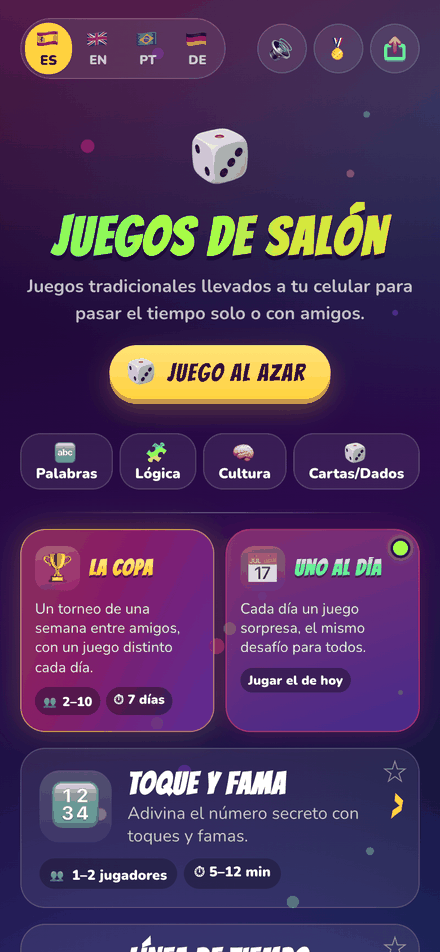
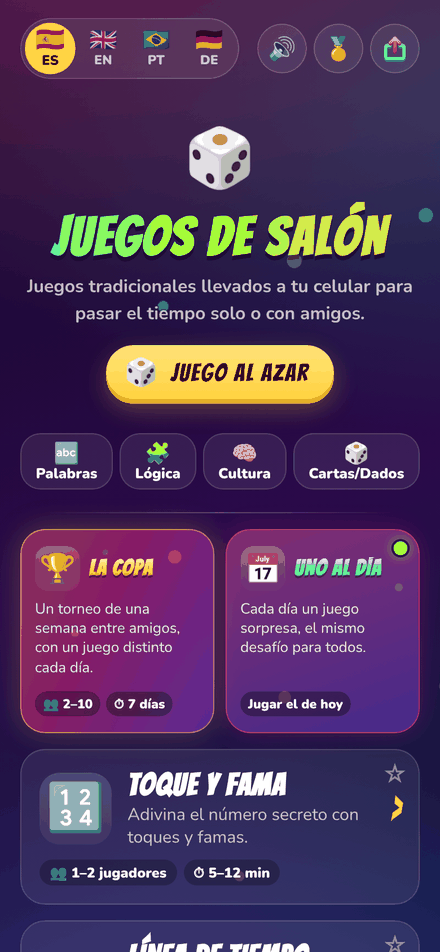
Portada: las píldoras de La Copa y Uno al día, abajo a la izquierda (D-298)
En la fila de media tarjeta, la última fila de la grilla se lleva el alto que sobra y las
píldoras se apoyan en su borde de abajo: quedan aparte de la bajada y a la misma altura en las
dos tarjetas. Canon, decisión, CHANGELOG y capturas de la portada.

Claude-Session: https://claude.ai/code/session_01Hqn3jMTANEpft9pavQSTnk

diff --git a/public/index.html b/public/index.html
@@ -264,7 +264,7 @@
     .fila-alta { display: grid; grid-auto-flow: column; grid-auto-columns: minmax(0, 1fr); gap: 10px; }
     /* El emoji va a la izquierda del título, y la bajada y las píldoras de borde a borde: la fila
        queda casi 90 px más baja que con el emoji arriba (D-239) */
-    .game-card.alta { position: relative; grid-template-columns: auto 1fr; grid-template-areas: "emoji h2" "tag tag" "meta meta"; column-gap: 8px; row-gap: 8px; align-items: center; align-content: start; justify-items: start; text-align: left; padding: 14px 12px; font: inherit; cursor: pointer; }
+    .game-card.alta { position: relative; grid-template-columns: auto 1fr; grid-template-rows: auto auto 1fr; grid-template-areas: "emoji h2" "tag tag" "meta meta"; column-gap: 8px; row-gap: 8px; align-items: center; justify-items: start; text-align: left; padding: 14px 12px; font: inherit; cursor: pointer; }
     .game-card.alta .emoji { width: 40px; height: 40px; font-size: 1.6rem; border-radius: 12px; }
     .game-card.alta .texto { display: contents; }
     .game-card.alta h2 { grid-area: h2; font-size: clamp(1.05rem, 5vw, 1.35rem); line-height: 1.05; }
@@ -273,6 +273,9 @@
     /* Jugadores y duración, en una sola línea: "👥 2–10 jugadores" no cabía al lado de "⏱ 7 días"
        en media fila, así que la palabra se esconde a la vista (el lector de pantalla la lee) */
     .game-card.alta .meta { flex-wrap: nowrap; gap: 5px; }
+    /* Las píldoras (jugadores y días; la racha o cómo va hoy) van abajo a la izquierda, aparte de la
+       bajada: la última fila se lleva el alto que sobra, así quedan a la misma altura en las dos tarjetas */
+    .game-card.alta .meta { align-self: end; padding-top: 4px; }
     .game-card.alta .meta span { font-size: 0.72rem; padding: 3px 7px; }
     .game-card.alta .meta span .unidad { position: absolute; width: 1px; height: 1px; overflow: hidden; clip-path: inset(50%); white-space: nowrap; padding: 0; }
     @media (max-width: 340px) { .game-card.alta .meta { gap: 4px; } .game-card.alta .meta span { padding: 3px 5px; font-size: 0.68rem; } }

diff --git a/docs/DECISIONES.md b/docs/DECISIONES.md
@@ -60,8 +60,8 @@ que siguen explicando algo; las reemplazadas y derogadas quedan fuera.
 | Idiomas | C-3 | D-47, D-74, D-170, D-191, D-194, D-197, D-199, D-231, D-244, D-256, D-269, D-270, D-286, D-289, D-293 |
 | Sonido y vibración | C-4 | D-17, D-92 |
 | Modos de juego | C-5 | D-27, D-65, D-129, D-142, D-213, D-246 |
-| Portada: orden, filtros y favoritos | C-17 | D-142, D-144, D-149, D-196, D-214, D-238, D-239, D-240, D-241, D-255 |
-| Juego al azar y Uno al día | [UNO-AL-DIA.md](UNO-AL-DIA.md) | D-188, D-230, D-235, D-237, D-239, D-247 |
+| Portada: orden, filtros y favoritos | C-17 | D-142, D-144, D-149, D-196, D-214, D-238, D-239, D-240, D-241, D-255, D-298 |
+| Juego al azar y Uno al día | [UNO-AL-DIA.md](UNO-AL-DIA.md) | D-188, D-230, D-235, D-237, D-239, D-247, D-298 |
 | Salas y transporte | C-7, C-15 | D-18, D-20, D-29, D-35, D-39, D-41, D-50, D-89, D-138 |
 | Anti-trampa y secretos | C-10, C-7 | D-19, D-21, D-55, D-70, D-81, D-82, D-97, D-246 |
 | Memoria de partida | C-6 | D-25, D-150 |
@@ -5340,3 +5340,14 @@ Sin confeti.
 etapas hechas).
 **Consecuencias:** `engine.test.mjs` revisa el avance y el puntaje al rendirse;
 `tools/e2e/paint-mines/lab.mjs` se rinde a mitad de partida.
+
+## D-298 · Las píldoras de La Copa y Uno al día, abajo a la izquierda
+**Fecha:** 2026-10-12 · **Estado:** vigente · **Relación:** completa D-239 (cómo se ordena la tarjeta de media fila)
+**Decisión:** en las dos tarjetas de media fila de la portada, las píldoras (👥 jugadores y ⏱ días
+en La Copa; la racha o cómo va hoy en Uno al día) van abajo a la izquierda de la tarjeta, aparte de
+la bajada. La última fila de la grilla (`grid-template-rows: auto auto 1fr`) se lleva el alto que
+sobra y las píldoras se apoyan en su borde de abajo (`align-self: end`), así quedan a la misma
+altura en las dos tarjetas aunque una bajada sea más larga que la otra. Lo pidió el dueño: antes la
+píldora de Uno al día quedaba pegada a su bajada, a media tarjeta, y se leía como parte del texto.
+**Alternativas descartadas:** una línea o un fondo que separe las píldoras (más ruido en una
+tarjeta chica); igualar el largo de las bajadas (cambia con el idioma).

diff --git a/docs/CANONES.md b/docs/CANONES.md
@@ -368,7 +368,8 @@ de dónde viene. Lo que cambie la portada se cambia aquí, en el mismo PR.
   a la izquierda del título, la bajada y las píldoras de ancho entero, y el título en color: La
   Copa en dorado, Uno al día en celeste; los juegos van en blanco. Para que jugadores y duración
   quepan en una línea, la píldora dice "👥 2–10" y "jugadores" queda solo para el lector de
-  pantalla (`.unidad`); la tarjeta ancha de un juego sí lo muestra (D-239).
+  pantalla (`.unidad`); la tarjeta ancha de un juego sí lo muestra (D-239). Las píldoras van
+  abajo a la izquierda, aparte de la bajada y a la misma altura en las dos tarjetas (D-298).
 - **Se filtra por tipo o por favoritos, y por nada más.** Un tipo a la vez (`TIPOS`), que
   se prende y se apaga con un toque. Solo hay fichas de tipos que tienen algún juego que se
   puede abrir, así la lista nunca queda vacía. Cuántos juegan no se filtra: cada juego lo

diff --git a/CHANGELOG.md b/CHANGELOG.md
@@ -1,5 +1,10 @@
 # Changelog
 
+## 0.168.2 — 2026-10-12
+- **Portada: las píldoras de La Copa y Uno al día, abajo a la izquierda** (D-298). Los jugadores y
+  los días de La Copa, y la racha o cómo vas hoy en Uno al día, quedan al pie de cada tarjeta y a la
+  misma altura en las dos, aparte del texto de arriba.
+
 ## 0.167.2 — 2026-10-12
 - **🖌 Pintaminas (laboratorio):** en el modo difícil, las cerezas salen rojas con el tallo verde,
   como son; los otros dibujos siguen con colores al azar.
